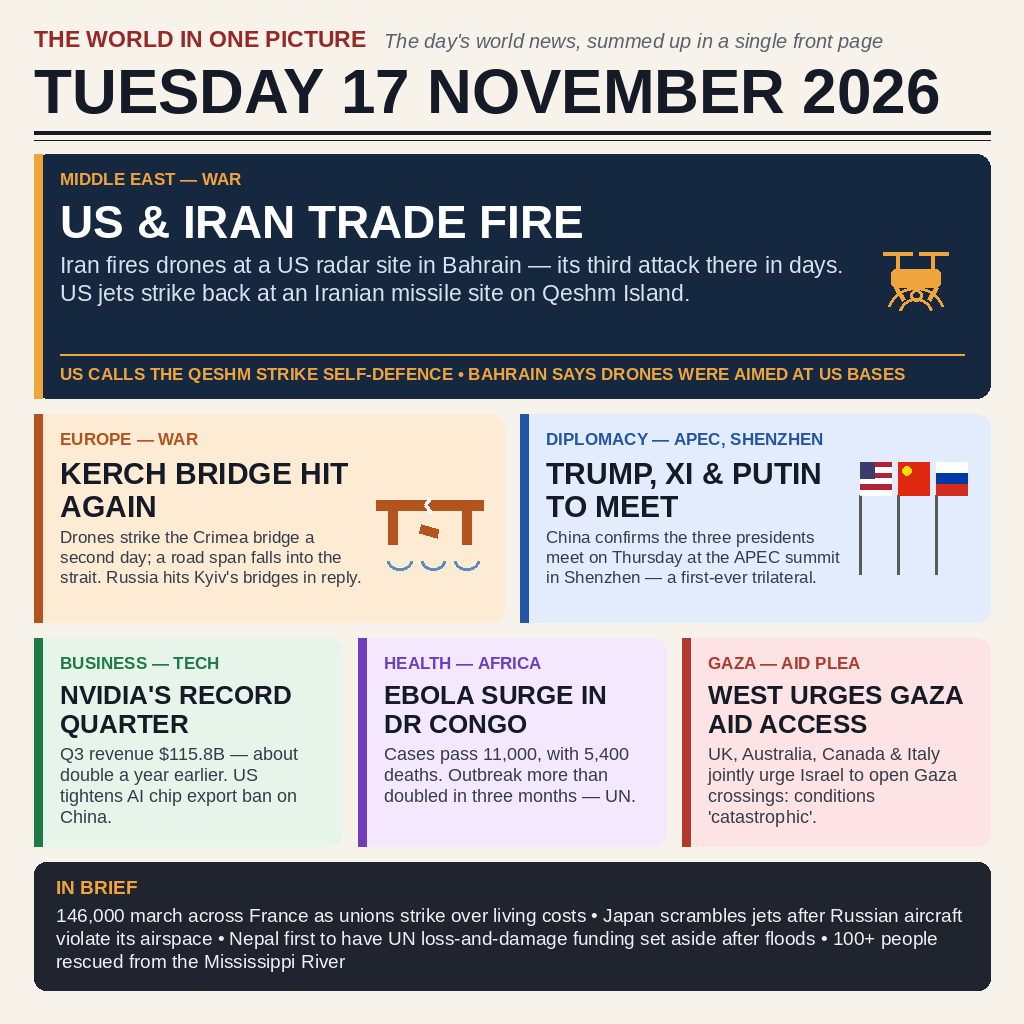
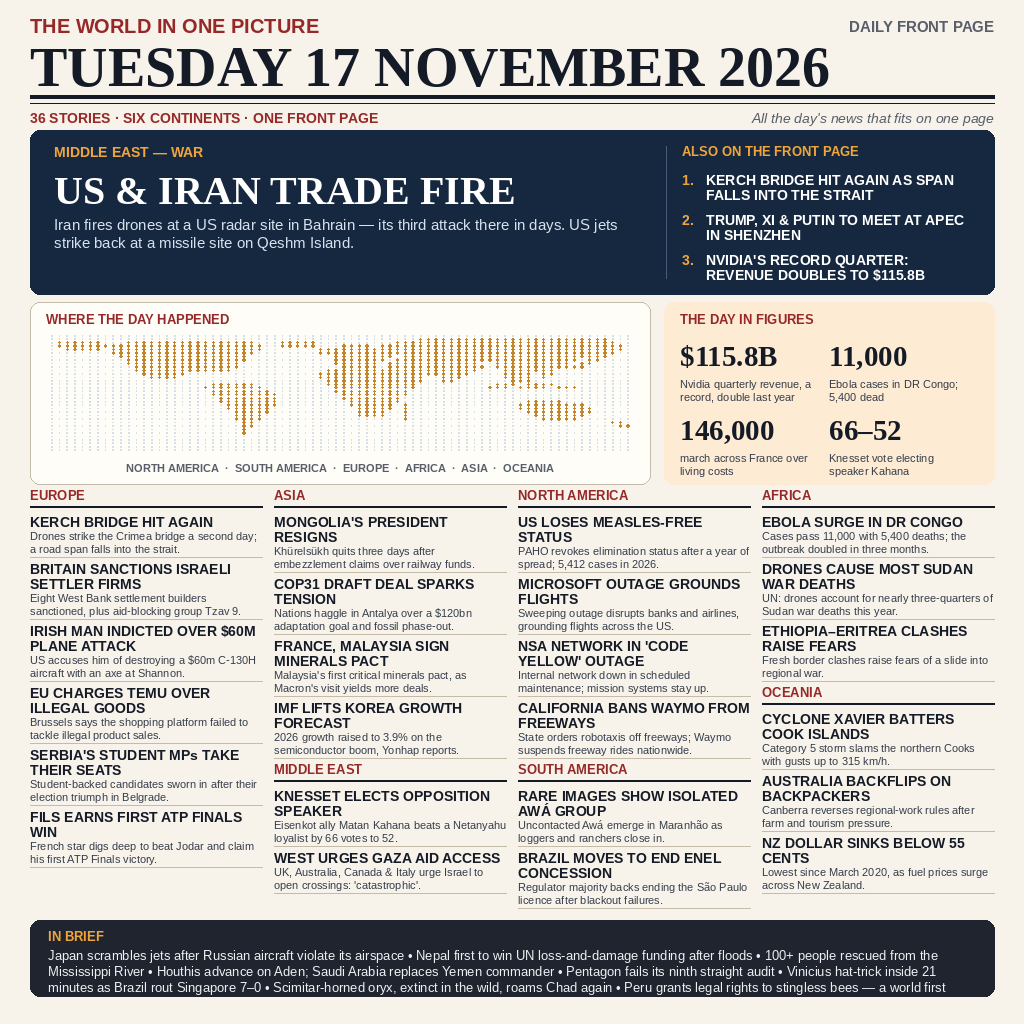
V2: dense front page — 36 stories, six continents, world map

diff --git a/README.md b/README.md
@@ -1,7 +1,9 @@
 # The World in One Picture — Tuesday 17 November 2026
 
 A one-image front page summing up the world news of **Tuesday 17 November 2026**,
-entered in make.fun's [News Image 17 Nov](https://make.fun) competition.
+entered in make.fun's News Image competition for that day. Version 2: a denser
+front page in the style of the boards' leading entries — **36 stories, six
+continents, one page**, with a dot-matrix world map and a day-in-figures box.
 
 ![Competition](https://make.fun/badge/news-image-20261117.svg)
 ![Rank](https://make.fun/badge/news-image-20261117/Shadowcell05/news-image-20261117/rank.svg)
@@ -11,10 +13,15 @@ entered in make.fun's [News Image 17 Nov](https://make.fun) competition.
 
 - **Lead:** US & Iran trade fire — Iranian drones hit a US radar site in Bahrain;
   US jets strike a missile site on Qeshm Island.
-- Ukraine hits the Kerch Bridge again; Trump, Xi & Putin to meet at APEC in Shenzhen.
-- Nvidia's record quarter ($115.8B revenue); Ebola surge in DR Congo; the West urges
-  Gaza aid access — plus an In Brief strip (France strikes, Japan jets, Nepal climate
-  funds, Mississippi rescue).
+- **Front page grid, by continent:** Kerch Bridge hit again, Britain sanctions
+  Israeli settler firms, Mongolia's president resigns, COP31 draft deal tensions,
+  the Knesset elects an opposition speaker, the US loses measles-free status,
+  a Microsoft outage grounds flights, Brazil moves to end the Enel concession,
+  Ebola surges in DR Congo, Cyclone Xavier batters the Cook Islands — and more.
+- **The day in figures:** Nvidia's $115.8B quarter, 11,000 Ebola cases,
+  146,000 marching in France, a 66–52 Knesset vote.
+- **In brief:** Japan's jets scramble, Nepal's climate funds, the Mississippi
+  rescue, Vinicius's 21-minute hat-trick, Peru's bees win legal rights.
 
 ## How it runs
 
